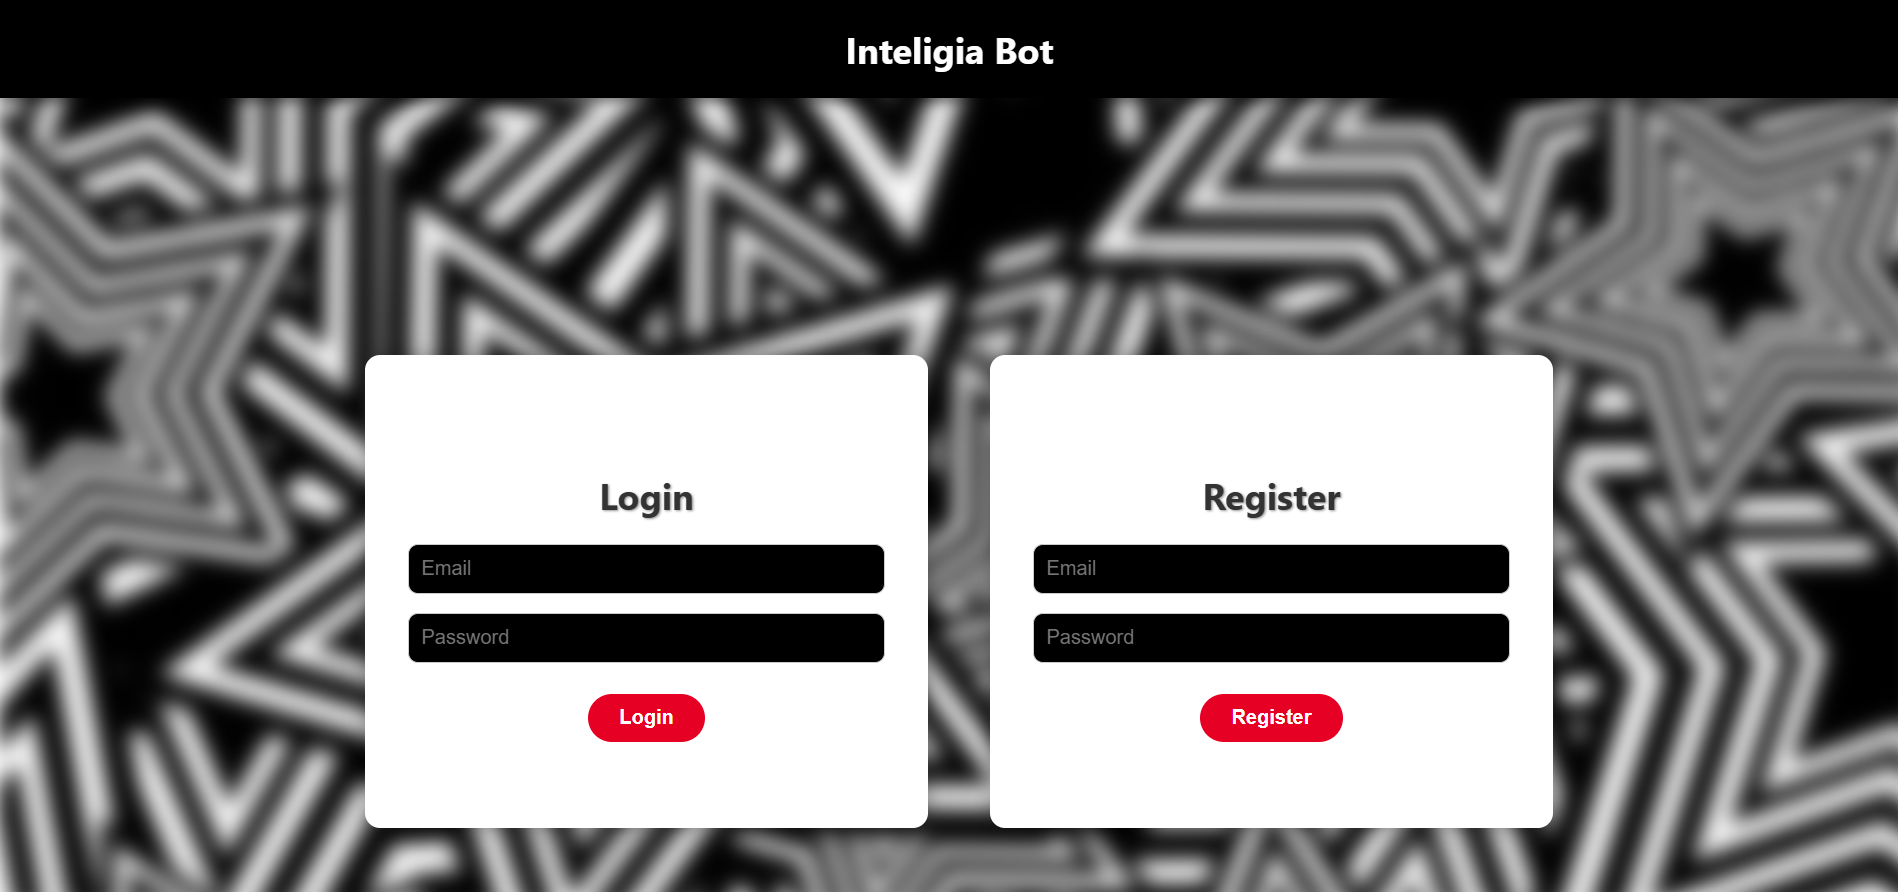
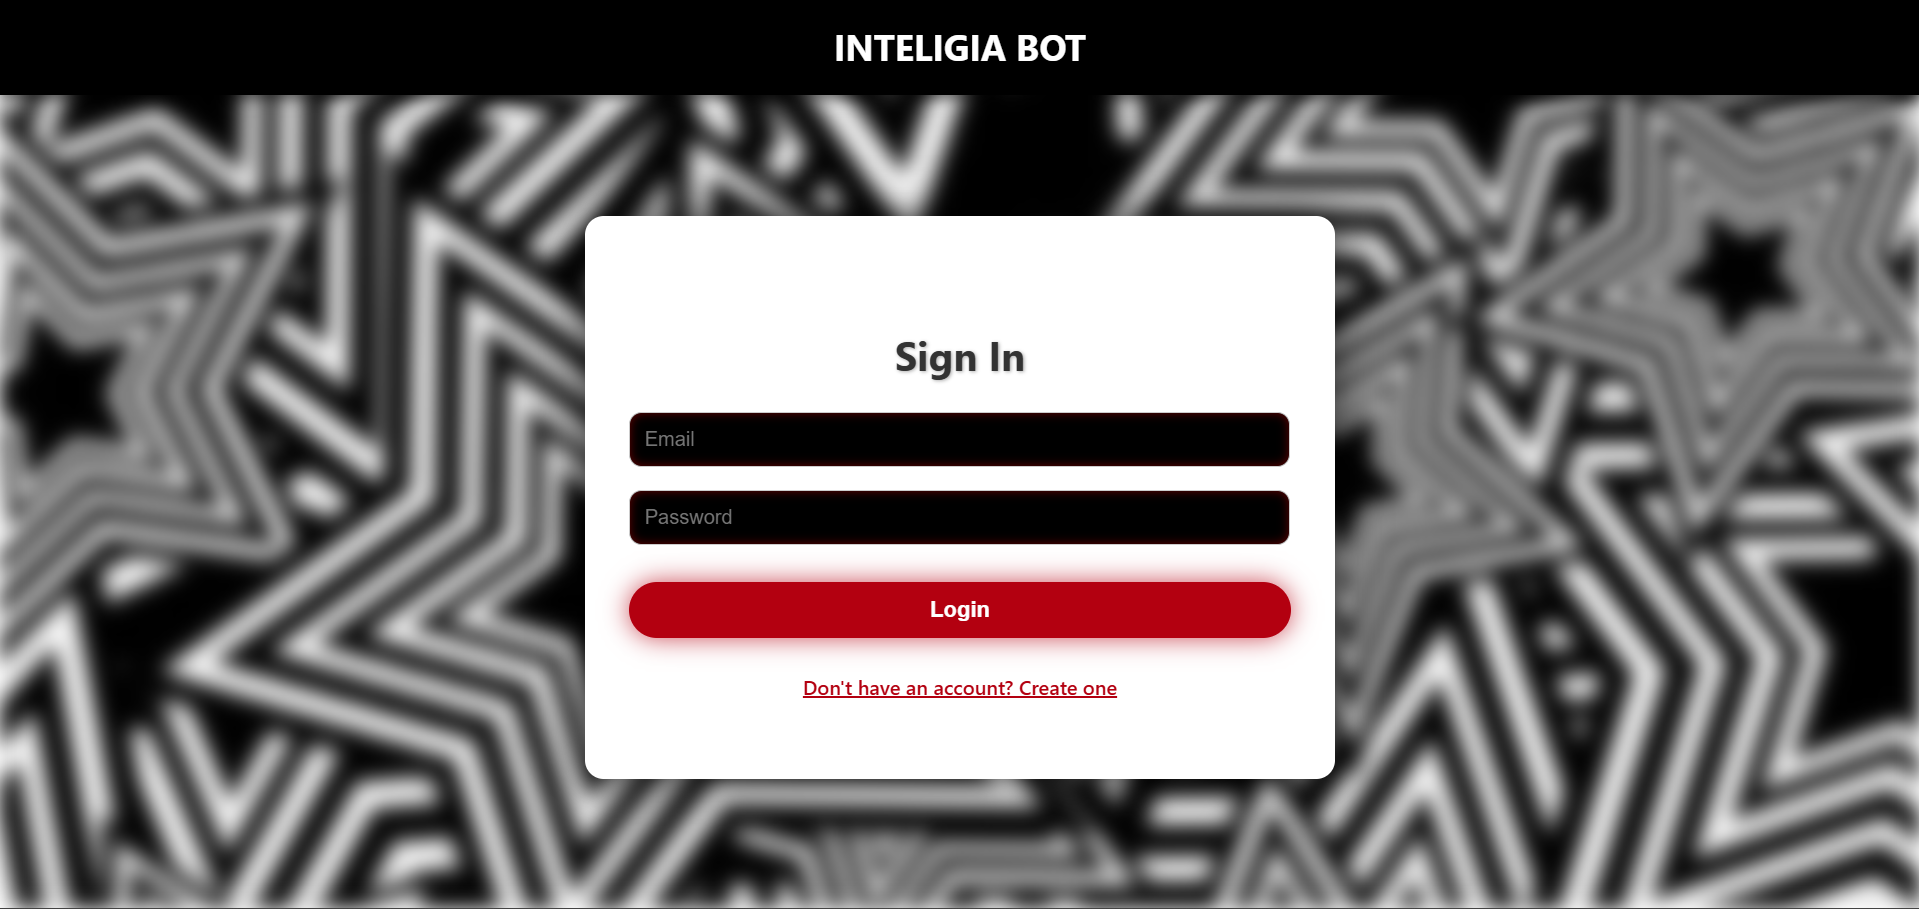
styling changes

diff --git a/frontend/src/components/auth.js b/frontend/src/components/auth.js
@@ -2,13 +2,19 @@ import React, { useState, useEffect } from 'react';
 import axios from 'axios';
 
 const Auth = ({ onAuthSuccess }) => {
-  const [mode, setMode] = useState('login'); // 'login' or 'register'
+  const [mode, setMode] = useState('login');
   const [email, setEmail] = useState('');
   const [password, setPassword] = useState('');
   const [animateIn, setAnimateIn] = useState(false);
+  const [contentVisible, setContentVisible] = useState(false);
 
   useEffect(() => {
-    setTimeout(() => setAnimateIn(true), 100);
+    const timeout1 = setTimeout(() => setAnimateIn(true), 100);
+    const timeout2 = setTimeout(() => setContentVisible(true), 400);
+    return () => {
+      clearTimeout(timeout1);
+      clearTimeout(timeout2);
+    };
   }, []);
 
   const handleSubmit = async (e) => {
@@ -29,16 +35,24 @@ const Auth = ({ onAuthSuccess }) => {
     }
   };
 
+  const handleToggleMode = () => {
+    setContentVisible(false);
+    setTimeout(() => {
+      setMode(mode === 'login' ? 'register' : 'login');
+      setTimeout(() => setContentVisible(true), 100);
+    }, 250);
+  };
+
   const containerStyle = {
     height: '80vh',
     width: '100vw',
     display: 'flex',
     justifyContent: 'center',
     alignItems: 'center',
-    // Remove black background to show underlying background
     background: 'transparent',
     position: 'relative',
     zIndex: 10,
+    overflow: 'hidden',
   };
 
   const boxStyle = {
@@ -57,6 +71,17 @@ const Auth = ({ onAuthSuccess }) => {
     padding: '35px',
     boxSizing: 'border-box',
     color: '#333',
+    overflow: 'hidden',
+  };
+
+  const innerContentStyle = {
+    opacity: contentVisible ? 1 : 0,
+    transform: contentVisible ? 'scale(1)' : 'scale(0.85)',
+    transition: 'all 0.4s ease',
+    display: 'flex',
+    flexDirection: 'column',
+    flexGrow: 1,
+    justifyContent: 'center',
   };
 
   const headingStyle = {
@@ -115,41 +140,43 @@ const Auth = ({ onAuthSuccess }) => {
   return (
     <div style={containerStyle}>
       <div style={boxStyle}>
-        <h2 style={headingStyle}>{headingText}</h2>
-        <form onSubmit={handleSubmit} style={{ display: 'flex', flexDirection: 'column' }}>
-          <input
-            type="email"
-            placeholder="Email"
-            value={email}
-            onChange={(e) => setEmail(e.target.value)}
-            style={inputStyle}
-            required
-            autoComplete="username"
-          />
-          <input
-            type="password"
-            placeholder="Password"
-            value={password}
-            onChange={(e) => setPassword(e.target.value)}
-            style={inputStyle}
-            required
-            autoComplete={mode === 'login' ? 'current-password' : 'new-password'}
-          />
-          <button
-            type="submit"
-            style={buttonStyle}
-            onMouseEnter={(e) =>
-              (e.currentTarget.style.boxShadow = '0 0 30px rgba(179, 0, 16, 0.9)')
-            }
-            onMouseLeave={(e) =>
-              (e.currentTarget.style.boxShadow = '0 0 20px rgba(179, 0, 16, 0.7)')
-            }
-          >
-            {mode === 'login' ? 'Login' : 'Register'}
-          </button>
-        </form>
-        <div style={toggleStyle} onClick={() => setMode(mode === 'login' ? 'register' : 'login')}>
-          {toggleText}
+        <div style={innerContentStyle}>
+          <h2 style={headingStyle}>{headingText}</h2>
+          <form onSubmit={handleSubmit} style={{ display: 'flex', flexDirection: 'column' }}>
+            <input
+              type="email"
+              placeholder="Email"
+              value={email}
+              onChange={(e) => setEmail(e.target.value)}
+              style={inputStyle}
+              required
+              autoComplete="username"
+            />
+            <input
+              type="password"
+              placeholder="Password"
+              value={password}
+              onChange={(e) => setPassword(e.target.value)}
+              style={inputStyle}
+              required
+              autoComplete={mode === 'login' ? 'current-password' : 'new-password'}
+            />
+            <button
+              type="submit"
+              style={buttonStyle}
+              onMouseEnter={(e) =>
+                (e.currentTarget.style.boxShadow = '0 0 30px rgba(179, 0, 16, 0.9)')
+              }
+              onMouseLeave={(e) =>
+                (e.currentTarget.style.boxShadow = '0 0 20px rgba(179, 0, 16, 0.7)')
+              }
+            >
+              {mode === 'login' ? 'Login' : 'Register'}
+            </button>
+          </form>
+          <div style={toggleStyle} onClick={handleToggleMode}>
+            {toggleText}
+          </div>
         </div>
       </div>
     </div>

diff --git a/frontend/src/components/chat.js b/frontend/src/components/chat.js
@@ -71,19 +71,12 @@ const Chat = () => {
       padding: '20px',
       borderRadius: '12px',
       boxShadow: '0 4px 20px rgba(0,0,0,0.1)',
-      backgroundColor: '#fff', // white container box
+      backgroundColor: '#fff',
       fontFamily: "'Segoe UI', Tahoma, Geneva, Verdana, sans-serif",
       display: 'flex',
       flexDirection: 'column',
       height: '70vh',
-      color: '#000', // dark text for white background
-    },
-    header: {
-      fontWeight: '700',
-      fontSize: '1.8rem',
-      marginBottom: '15px',
-      textAlign: 'center',
-      color: '#333',
+      color: '#000',
     },
     logoutBtn: {
       alignSelf: 'flex-end',
@@ -93,9 +86,9 @@ const Chat = () => {
       padding: '8px 14px',
       borderRadius: '6px',
       cursor: 'pointer',
-      //marginBottom: '10px',
       fontWeight: '600',
       transition: 'background-color 0.3s ease',
+      marginBottom: '10px',
     },
     chatBox: {
       flexGrow: 1,
@@ -106,11 +99,11 @@ const Chat = () => {
       gap: '12px',
       backgroundColor: '#1E0000',
       borderRadius: '12px',
-      color: '#fff', // white text inside chat area
+      color: '#fff',
     },
     messageUser: {
       alignSelf: 'flex-end',
-      backgroundColor: '#e60023', // red user message box
+      backgroundColor: '#e60023',
       color: 'white',
       padding: '12px 18px',
       borderRadius: '20px 20px 0 20px',
@@ -146,12 +139,11 @@ const Chat = () => {
       padding: '14px 24px',
       borderRadius: '25px',
       border: 'none',
-      backgroundColor: '#888', // gray send button
       color: 'white',
       fontWeight: '700',
       cursor: 'pointer',
       fontSize: '1rem',
-      transition: 'background-color 0.3s ease, box-shadow 0.3s ease',
+      transition: 'background-color 0.4s ease, box-shadow 0.3s ease',
     },
   };
 
@@ -165,7 +157,6 @@ const Chat = () => {
       >
         Logout
       </button>
-      <h2 style={styles.header}>AI Chat</h2>
 
       <div style={styles.chatBox}>
         {chat.map((msg, index) => (
@@ -202,13 +193,16 @@ const Chat = () => {
         />
         <button
           onClick={sendMessage}
-          style={styles.button}
+          style={{
+            ...styles.button,
+            backgroundColor: message.length > 0 ? '#b30010' : '#888',
+          }}
           onMouseEnter={(e) => {
-            e.currentTarget.style.backgroundColor = '#8b0000'; // dark red
-            e.currentTarget.style.boxShadow = '0 0 8px #8b0000';
+            if (message.length > 0) {
+              e.currentTarget.style.boxShadow = '0 0 8px #b30010';
+            }
           }}
           onMouseLeave={(e) => {
-            e.currentTarget.style.backgroundColor = '#888'; // gray
             e.currentTarget.style.boxShadow = 'none';
           }}
         >

diff --git a/frontend/src/components/LandingPage.js b/frontend/src/components/LandingPage.js
@@ -17,12 +17,10 @@ const LandingPage = ({ onStart }) => {
   const handleStartClick = () => {
     setIsAnimating(true);
 
-    // Wait for shrink animation (~1.5s), then fade out
     setTimeout(() => {
       setHasShrunk(true);
     }, 900);
 
-    // Wait for total transition (~1.8s), then call onStart
     setTimeout(() => {
       onStart();
     }, 1200);

diff --git a/README.md b/README.md
@@ -4,6 +4,10 @@ A sleek, modern AI-powered chat application with user authentication, chat histo
 
 ---
 
+## 🎥 Live Demo
+
+[![Watch the demo]](https://www.youtube.com/watch?v=3lEn34VKO9I)
+
 ## Features
 
 - **User Authentication:** Register and login with JWT-based authentication.
@@ -15,6 +19,9 @@ A sleek, modern AI-powered chat application with user authentication, chat histo
 ---
 
 ## Screenshots
+
+### Landing Page  
+![Landing Page](./screenshots/landing.png)
 
 ### Login & Register  
 ![Login and Register Screen](./screenshots/auth-screen.png)
@@ -59,7 +66,6 @@ A sleek, modern AI-powered chat application with user authentication, chat histo
        MONGO_URI=your_mongo_connection_string
        JWT_SECRET=your_jwt_secret_key
        OPENAI_API_KEY=your_openai_api_key
-       PORT=8080
 
 3. Setup frontend
 
@@ -98,23 +104,9 @@ A sleek, modern AI-powered chat application with user authentication, chat histo
 - `GET /api/chatlogs` — Get chat history for authenticated user  
 - `POST /api/chat` — Send message and receive AI response  
 
----
-
-## Contributing
-
-Contributions are welcome! Feel free to open issues or submit pull requests for improvements.
 
 ---
 
 ## Contact
 
 Created by **Ansh Partap Singh** – [apsingh6235@gmail.com](mailto:apsingh6235@gmail.com)  
-GitHub: [https://github.com/Ansh5525](https://github.com/Ansh5525)
-
----
-
-## Acknowledgments
-
-- [OpenAI](https://openai.com) for AI API  
-- React community for great tools and resources  
-- Inspired by many awesome chatbots on GitHub  
